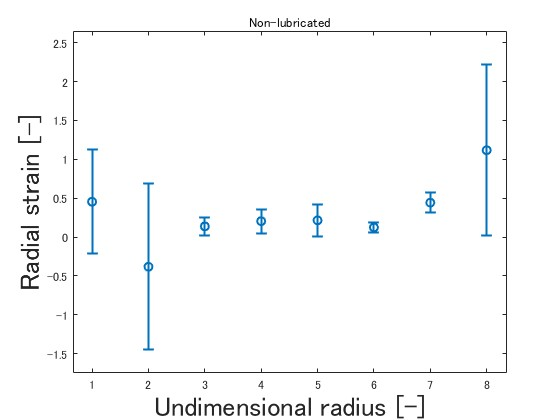
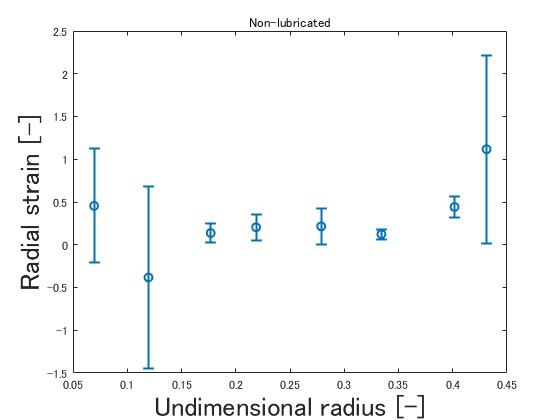
add

diff --git a/ToolboxForSimulator/Results_str.m b/ToolboxForSimulator/Results_str.m
@@ -1,4 +1,4 @@
-function [Non, Teflon, Lanolin] = Results_str(Data_Non, Data_Teflon, Data_Lanolin)
+function [Non, Teflon, Lanolin] = Results_str(Data_Non, Data_Teflon, Data_Lanolin, font_size)
 Non = calc_Str(Data_Non);
 Teflon = calc_Str(Data_Teflon);
 Lanolin = calc_Str(Data_Lanolin);
@@ -6,13 +6,13 @@ Lanolin = calc_Str(Data_Lanolin);
 function Materials = calc_Str(Data_Materials)
 h0 = mean(Data_Materials.h0, 'omitnan');
 D0 = mean(Data_Materials.D0, 'omitnan');
-P = Data_Materials.P;
+P = 9.8066/10^3*Data_Materials.P; % [kgf] → [KN]
 L = Data_Materials.L;
 for i = 1:length(L)
     h(i) = h0 - L(i);
     NominalStrain(i) = 1 - h(i)/h0;
     TrueStrain(i) = log(h0/h(i));
-    NominalStress(i) = 4*P(i)/(pi*D0);
+    NominalStress(i) = 4*P(i)/(pi*D0)*10^3;
     TrueStress(i) = NominalStress(i)*(1 - NominalStrain(i));
 end
 Materials.h0 = h0;
@@ -22,17 +22,72 @@ Materials.NominalStrain = NominalStrain;
 Materials.NominalStress = NominalStress;
 Materials.TrueStrain = TrueStrain;
 Materials.TrueStress = TrueStress;
+Materials.Pmax = max(P);
 end
+
 figure
+subplot(1,3,1)
 plot(Non.NominalStrain, Non.NominalStress, 'b-o', 'LineWidth',5); hold on;
 plot(Teflon.NominalStrain, Teflon.NominalStress, 'r-o', 'LineWidth',5); hold on;
 plot(Lanolin.NominalStrain, Lanolin.NominalStress, 'm-o', 'LineWidth',5)
-legend('Non-lubricated', 'Teflon sheet', 'Lanolin');
-xlabel('NominalStrain [-]'); ylabel('NominalStress [MPa]');
-figure
+legend('Non-lubricated', 'Teflon sheet', 'Lanolin', 'FontSize',font_size);
+xlabel('NominalStrain [-]', 'FontSize',font_size); 
+ylabel('NominalStress [MPa]', 'FontSize',font_size); 
+title('nominal stress-nominal strain diagram', 'FontSize',font_size)
+set(gca, 'FontSize', font_size);
+set(gca, 'TickLength', [0.03 0.03], 'XMinorTick', 'on', 'YMinorTick', 'on');
+
+subplot(1,3,2)
 loglog(Non.TrueStrain, Non.TrueStress, 'b-o', 'LineWidth',5); hold on;
 loglog(Teflon.TrueStrain, Teflon.TrueStress, 'r-o', 'LineWidth',5); hold on;
 loglog(Lanolin.TrueStrain, Lanolin.TrueStress, 'm-o', 'LineWidth',5)
-legend('Non-lubricated', 'Teflon sheet', 'Lanolin');
-xlabel('NominalStrain [-]'); ylabel('NominalStress [MPa]');
+legend('Non-lubricated', 'Teflon sheet', 'Lanolin', 'FontSize',font_size);
+xlabel('NominalStrain [-]', 'FontSize',font_size); 
+ylabel('NominalStress [MPa]', 'FontSize',font_size); 
+title('true stress-true strain diagram', 'FontSize',font_size)
+set(gca, 'FontSize', font_size);
+set(gca, 'TickLength', [0.03 0.03], 'XMinorTick', 'on', 'YMinorTick', 'on');
+
+subplot(1,3,3)
+P_max = [Non.Pmax, Teflon.Pmax, Lanolin.Pmax];
+X = categorical({'Non-lubricated', 'Teflon sheet', 'Lanolin'});
+X = reordercats(X,{'Non-lubricated', 'Teflon sheet', 'Lanolin'});
+hold on
+colors = {'b', 'r', 'm'};
+for i = 1:length(P_max)
+    bar(X(i), P_max(i), 'FaceColor', colors{i});
+end
+set(gca, 'FontSize', font_size);
+set(gca, 'TickLength', [0.03 0.03], 'XMinorTick', 'on', 'YMinorTick', 'on');
+ylabel('Load [KN]')
+title('maximum load')
+hold off
+box on
+
+% figure
+% plot(Non.NominalStrain, Non.NominalStress, 'b-o', 'LineWidth',5); hold on;
+% plot(Teflon.NominalStrain, Teflon.NominalStress, 'r-o', 'LineWidth',5); hold on;
+% plot(Lanolin.NominalStrain, Lanolin.NominalStress, 'm-o', 'LineWidth',5)
+% legend('Non-lubricated', 'Teflon sheet', 'Lanolin');
+% xlabel('NominalStrain [-]'); ylabel('NominalStress [KPa]');
+% 
+% figure
+% loglog(Non.TrueStrain, Non.TrueStress, 'b-o', 'LineWidth',5); hold on;
+% loglog(Teflon.TrueStrain, Teflon.TrueStress, 'r-o', 'LineWidth',5); hold on;
+% loglog(Lanolin.TrueStrain, Lanolin.TrueStress, 'm-o', 'LineWidth',5)
+% legend('Non-lubricated', 'Teflon sheet', 'Lanolin');
+% xlabel('NominalStrain [-]'); ylabel('NominalStress [KPa]');
+% figure
+% P_max = [Non.Pmax, Teflon.Pmax, Lanolin.Pmax];
+% X = categorical({'Non-lubricated', 'Teflon sheet', 'Lanolin'});
+% X = reordercats(X,{'Non-lubricated', 'Teflon sheet', 'Lanolin'});
+% hold on
+% colors = {'b', 'r', 'm'};
+% for i = 1:length(P_max)
+%     bar(X(i), P_max(i), 'FaceColor', colors{i});
+% end
+% set(gca, 'FontSize', font_size);
+% set(gca, 'TickLength', [0.03 0.03], 'XMinorTick', 'on', 'YMinorTick', 'on');
+% hold off
+
 end

diff --git a/ToolboxForSimulator/Result1.m b/ToolboxForSimulator/Result1.m
@@ -1,8 +1,31 @@
-function [Non, Teflon, Lanolin] = Result1(Data_Non, Data_Teflon, Data_Lanolin, Non, Teflon, Lanolin)
+function [Non, Teflon, Lanolin] = Result1(Data_Non, Data_Teflon, Data_Lanolin, Non, Teflon, Lanolin, font_size)
 titlename_Non = 'Non-lubricated'; titlename_Teflon = 'Teflon sheet'; titlename_Lanolin = 'Lanolin';
 Non = calc_Result1(Data_Non, Non, titlename_Non);
 Teflon = calc_Result1(Data_Teflon, Teflon, titlename_Teflon);
 Lanolin = calc_Result1(Data_Lanolin, Lanolin, titlename_Lanolin);
+
+figure;
+subplot(1,3,1)
+errorbar(Non.Undim(:,2:end), Non.Strain_r_mean, Non.Strain_r_std, 'o', 'LineWidth', 1.5, 'MarkerSize', 6, 'CapSize', 8, 'Color', 'b', 'MarkerFaceColor','b');
+xlabel('Undimensional radius [-]'); ylabel('Radial strain [-]');
+title(titlename_Non);
+set(gca, 'FontSize', font_size);
+set(gca, 'TickLength', [0.03 0.03], 'XMinorTick', 'on', 'YMinorTick', 'on');
+
+subplot(1,3,2)
+errorbar(Teflon.Undim(:,2:end), Teflon.Strain_r_mean, Teflon.Strain_r_std, 'o', 'LineWidth', 1.5, 'MarkerSize', 6, 'CapSize', 8, 'Color', 'r', 'MarkerFaceColor','r');
+xlabel('Undimensional radius [-]'); ylabel('Radial strain [-]');
+title(titlename_Teflon);
+set(gca, 'FontSize', font_size);
+set(gca, 'TickLength', [0.03 0.03], 'XMinorTick', 'on', 'YMinorTick', 'on');
+
+subplot(1,3,3)
+errorbar(Lanolin.Undim(:,2:end), Lanolin.Strain_r_mean, Lanolin.Strain_r_std, 'o', 'LineWidth', 1.5, 'MarkerSize', 6, 'CapSize', 8, 'Color', 'm', 'MarkerFaceColor','m');
+xlabel('Undimensional radius [-]'); ylabel('Radial strain [-]');
+title(titlename_Lanolin);
+set(gca, 'FontSize', font_size);
+set(gca, 'TickLength', [0.03 0.03], 'XMinorTick', 'on', 'YMinorTick', 'on');
+
 function Materials = calc_Result1(Data_Materials, Materials, titlename)
 D0 = mean(Data_Materials.D0, 'omitnan');
 r_n = Data_Materials.r_n;
@@ -43,15 +66,16 @@ for i = 1:length(r_n_groups_mean)
     Undim(i) = r_n_groups_mean(i)/D0;
 end
 
-figure;
-errorbar(Undim(2:end,:), Strain_r_mean, Strain_r_std, 'o', 'LineWidth', 1.5, 'MarkerSize', 6, 'CapSize', 8, 'Color', [0 0.4470 0.7410]);
-xlabel('Undimensional radius [-]', 'FontSize',20); ylabel('Radial strain [-]', 'FontSize',20);
-title(titlename);
+% figure;
+% errorbar(Undim(:,2:end), Strain_r_mean, Strain_r_std, 'o', 'LineWidth', 1.5, 'MarkerSize', 6, 'CapSize', 8, 'Color', [0 0.4470 0.7410]);
+% xlabel('Undimensional radius [-]', 'FontSize',20); ylabel('Radial strain [-]', 'FontSize',20);
+% title(titlename);
 
 Materials.delr_n_groups = delr_n_groups;
 Materials.delr_nd_groups = delr_nd_groups;
 Materials.Strain_r = Strain_r;
 Materials.Strain_r_mean = Strain_r_mean;
 Materials.Strain_r_std = Strain_r_std;
+Materials.Undim = Undim;
 end
 end

diff --git a/ToolboxForSimulator/Result2.m b/ToolboxForSimulator/Result2.m
@@ -1,8 +1,30 @@
-function [Non, Teflon, Lanolin] = Result2(Data_Non, Data_Teflon, Data_Lanolin, Non, Teflon, Lanolin)
+function [Non, Teflon, Lanolin] = Result2(Data_Non, Data_Teflon, Data_Lanolin, Non, Teflon, Lanolin, font_size)
 titlename_Non = 'Non-lubricated'; titlename_Teflon = 'Teflon sheet'; titlename_Lanolin = 'Lanolin';
 Non = calc_Result2(Data_Non, Non, titlename_Non);
 Teflon = calc_Result2(Data_Teflon, Teflon, titlename_Teflon);
 Lanolin = calc_Result2(Data_Lanolin, Lanolin, titlename_Lanolin);
+
+figure;
+subplot(1,3,1)
+errorbar(Non.Dimen, Non.StrainC_mean, Non.StrainC_std, 'o', 'LineWidth', 1.5, 'MarkerSize', 6, 'CapSize', 8, 'Color', 'b', 'MarkerFaceColor','b');
+xlabel('Dimensionless height [-]'); ylabel('Circumferential strain [-]');
+title(titlename_Non);
+set(gca, 'FontSize', font_size);
+set(gca, 'TickLength', [0.03 0.03], 'XMinorTick', 'on', 'YMinorTick', 'on');
+
+subplot(1,3,2)
+errorbar(Teflon.Dimen, Teflon.StrainC_mean, Teflon.StrainC_std, 'o', 'LineWidth', 1.5, 'MarkerSize', 6, 'CapSize', 8, 'Color', 'r', 'MarkerFaceColor','r');
+xlabel('Dimensionless height [-]'); ylabel('Circumferential strain [-]');
+title(titlename_Teflon);
+set(gca, 'FontSize', font_size);
+set(gca, 'TickLength', [0.03 0.03], 'XMinorTick', 'on', 'YMinorTick', 'on');
+
+subplot(1,3,3)
+errorbar(Lanolin.Dimen, Lanolin.StrainC_mean, Lanolin.StrainC_std, 'o', 'LineWidth', 1.5, 'MarkerSize', 6, 'CapSize', 8, 'Color', 'm', 'MarkerFaceColor','m');
+xlabel('Dimensionless height [-]'); ylabel('Circumferential strain [-]');
+title(titlename_Lanolin);
+set(gca, 'FontSize', font_size);
+set(gca, 'TickLength', [0.03 0.03], 'XMinorTick', 'on', 'YMinorTick', 'on');
 
 function Materials = calc_Result2(Data_Materials, Materials, titlename)
 h0 = mean(Data_Materials.h0, 'omitnan');
@@ -36,10 +58,11 @@ Materials.StrainC_mean = StrainC_mean;
 Materials.StrainC_std = StrainC_std;
 Materials.ZnC_std = Zn_std;
 Materials.ZnC_mean = Zn_mean;
+Materials.Dimen = Dimen;
 
-figure;
-errorbar(Dimen, StrainC_mean, StrainC_std, 'o', 'LineWidth', 1.5, 'MarkerSize', 6, 'CapSize', 8, 'Color', [0 0.4470 0.7410]);
-xlabel('Dimensionless height [-]', 'FontSize',20); ylabel('Circumferential strain [-]', 'FontSize',20);
-title(titlename);
+% figure;
+% errorbar(Dimen, StrainC_mean, StrainC_std, 'o', 'LineWidth', 1.5, 'MarkerSize', 6, 'CapSize', 8, 'Color', [0 0.4470 0.7410]);
+% xlabel('Dimensionless height [-]', 'FontSize',20); ylabel('Circumferential strain [-]', 'FontSize',20);
+% title(titlename);
 end
 end

diff --git a/Experiment6.m b/Experiment6.m
@@ -2,16 +2,14 @@ clc; close all; clear;
 
 %% setting condition
 addpath(genpath('ToolboxForSimulator'));
-% importfolder   = 'ToolboxForSimulator/condition';
-% importfilename = 'Result_Data.xlsx'; % 条件のファイル
-% Data           = dataimport(importfolder,importfilename,[]);
 Data_Non     = readtable('Data_Non.xlsx');
 Data_Teflon     = readtable('Data_Teflon.xlsx');
 Data_Lanolin     = readtable('Data_Lanolin.xlsx');
+font_size = 20;
 
 % Experimental results
-[Non, Teflon, Lanolin] = Results_str(Data_Non, Data_Teflon, Data_Lanolin);
+[Non, Teflon, Lanolin] = Results_str(Data_Non, Data_Teflon, Data_Lanolin, font_size);
 
-[Non, Teflon, Lanolin] = Result1(Data_Non, Data_Teflon, Data_Lanolin, Non, Teflon, Lanolin);
-[Non, Teflon, Lanolin] = Result2(Data_Non, Data_Teflon, Data_Lanolin, Non, Teflon, Lanolin);
+[Non, Teflon, Lanolin] = Result1(Data_Non, Data_Teflon, Data_Lanolin, Non, Teflon, Lanolin, font_size);
+[Non, Teflon, Lanolin] = Result2(Data_Non, Data_Teflon, Data_Lanolin, Non, Teflon, Lanolin, font_size);
 
